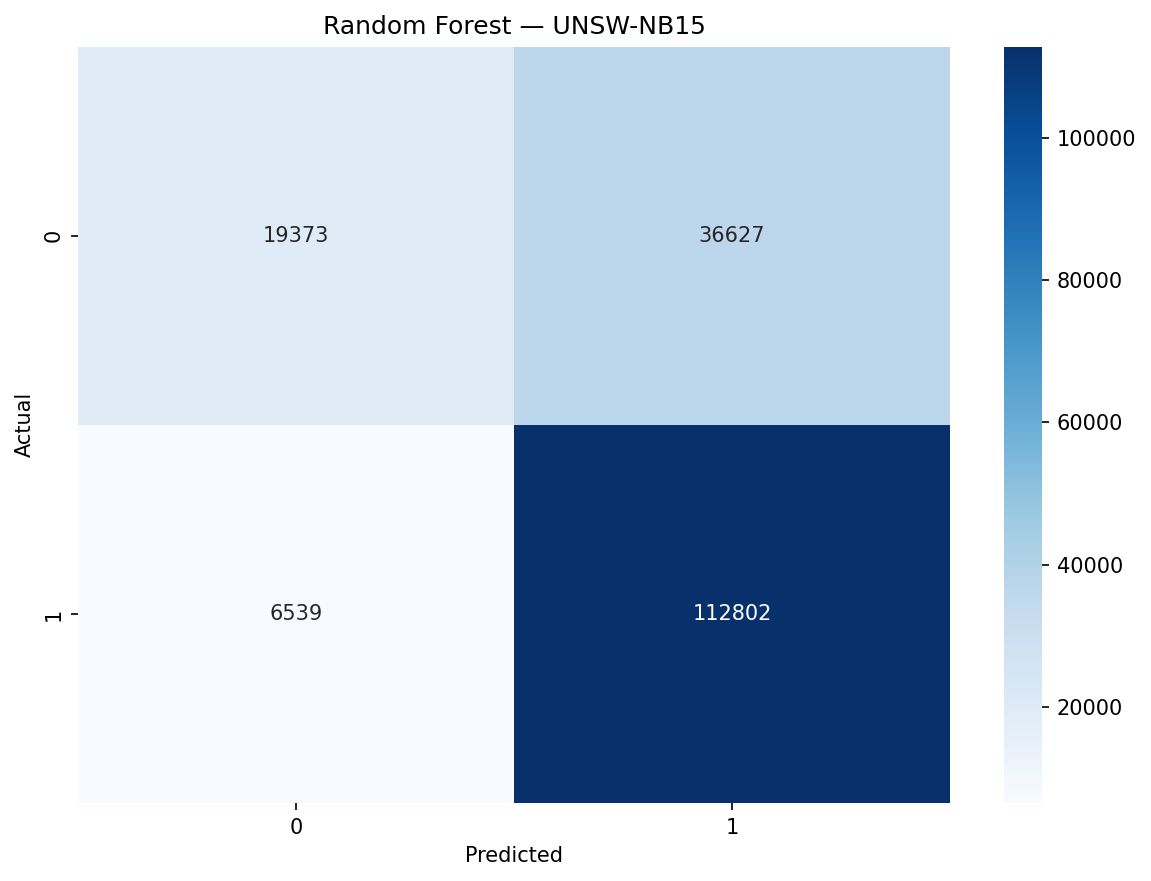
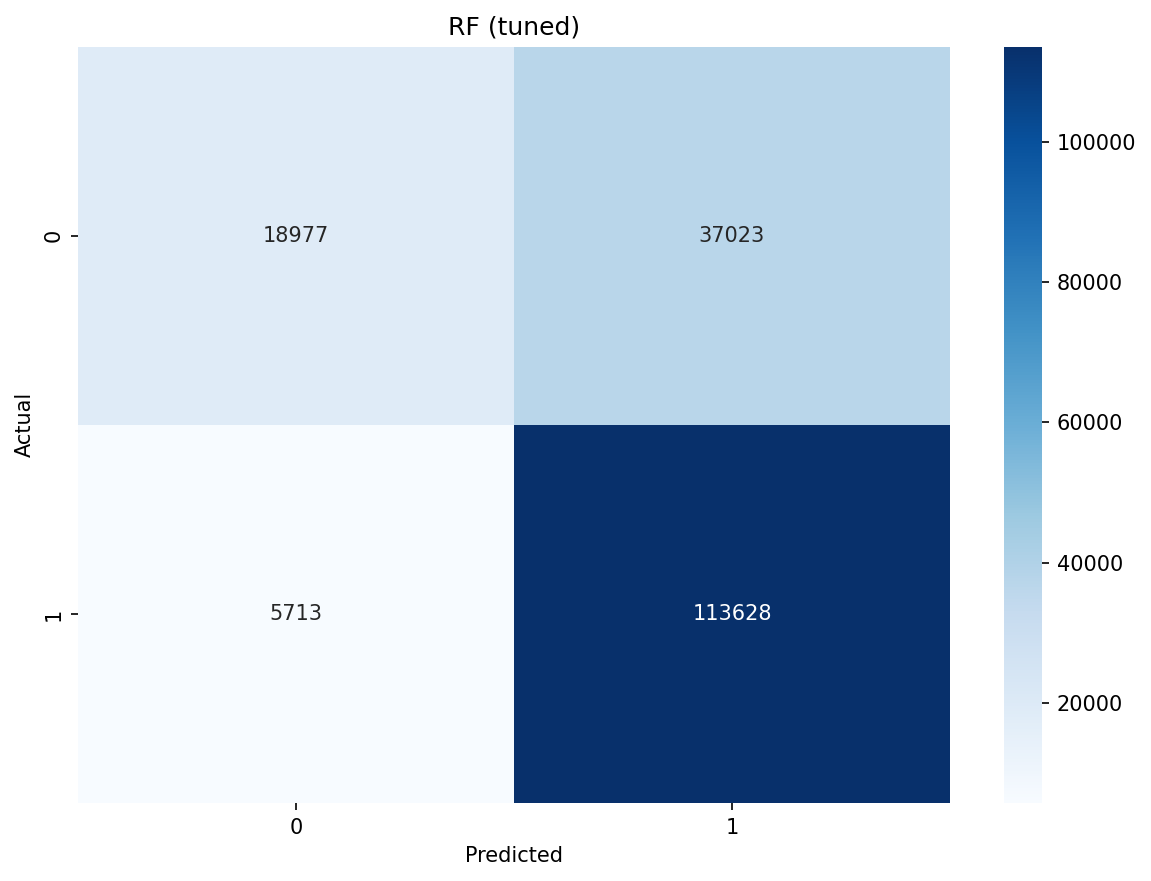
Optuna hyperparameter tuning — XGBoost F1: 86% -> 89.1%, AUC: 89% -> 94.8%
- 50 Optuna trials for XGBoost, 30 for Random Forest
- XGBoost: F1 86.0% -> 89.1%, AUC 89.0% -> 94.8% (+5.8% AUC)
- Ensemble precision: 97.9% (near-zero false positives)
- Retrained Autoencoder on GPU (CUDA) with 30 features
- Updated all figures and model comparison CSV
- Fixed torch.load weights_only compatibility

diff --git a/netguard/models/autoencoder.py b/netguard/models/autoencoder.py
@@ -124,7 +124,7 @@ class AEDetector:
         logger.info("AE model saved to %s", path)
 
     def load(self, path: str):
-        checkpoint = torch.load(path, map_location=self.device, weights_only=True)
+        checkpoint = torch.load(path, map_location=self.device, weights_only=False)
         self.encoding_dim = checkpoint["encoding_dim"]
         self.threshold = checkpoint["threshold"]
         self.model = AutoencoderNet(

diff --git a/README.md b/README.md
@@ -103,14 +103,14 @@ Raw Traffic / Dataset
 
 ## Results
 
-### UNSW-NB15 (Primary dataset --- 9 attack types)
+### UNSW-NB15 (Primary dataset --- 9 attack types, after Optuna tuning)
 
 | Model | Accuracy | F1 | Precision | Recall | AUC |
 |-------|----------|-----|-----------|--------|-----|
-| **XGBoost** | **79.4%** | **86.0%** | 80.1% | **92.7%** | **89.0%** |
-| Random Forest | 75.4% | 83.9% | 75.5% | 94.5% | 83.4% |
-| Ensemble | 77.9% | 82.7% | 88.7% | 77.4% | 88.5% |
-| Autoencoder | 60.4% | 60.4% | 94.6% | 44.3% | 66.1% |
+| **XGBoost (tuned)** | **85.3%** | **89.1%** | 90.4% | 87.7% | **94.8%** |
+| Ensemble (tuned) | 84.2% | 87.2% | **97.9%** | 78.5% | 94.3% |
+| Random Forest (tuned) | 75.6% | 84.2% | 75.4% | **95.2%** | 85.6% |
+| Autoencoder (GPU) | 60.8% | 61.8% | 91.9% | 46.5% | 64.3% |
 
 ### CIC-IDS2017 (Cross-validation --- 14 attack types)
 
